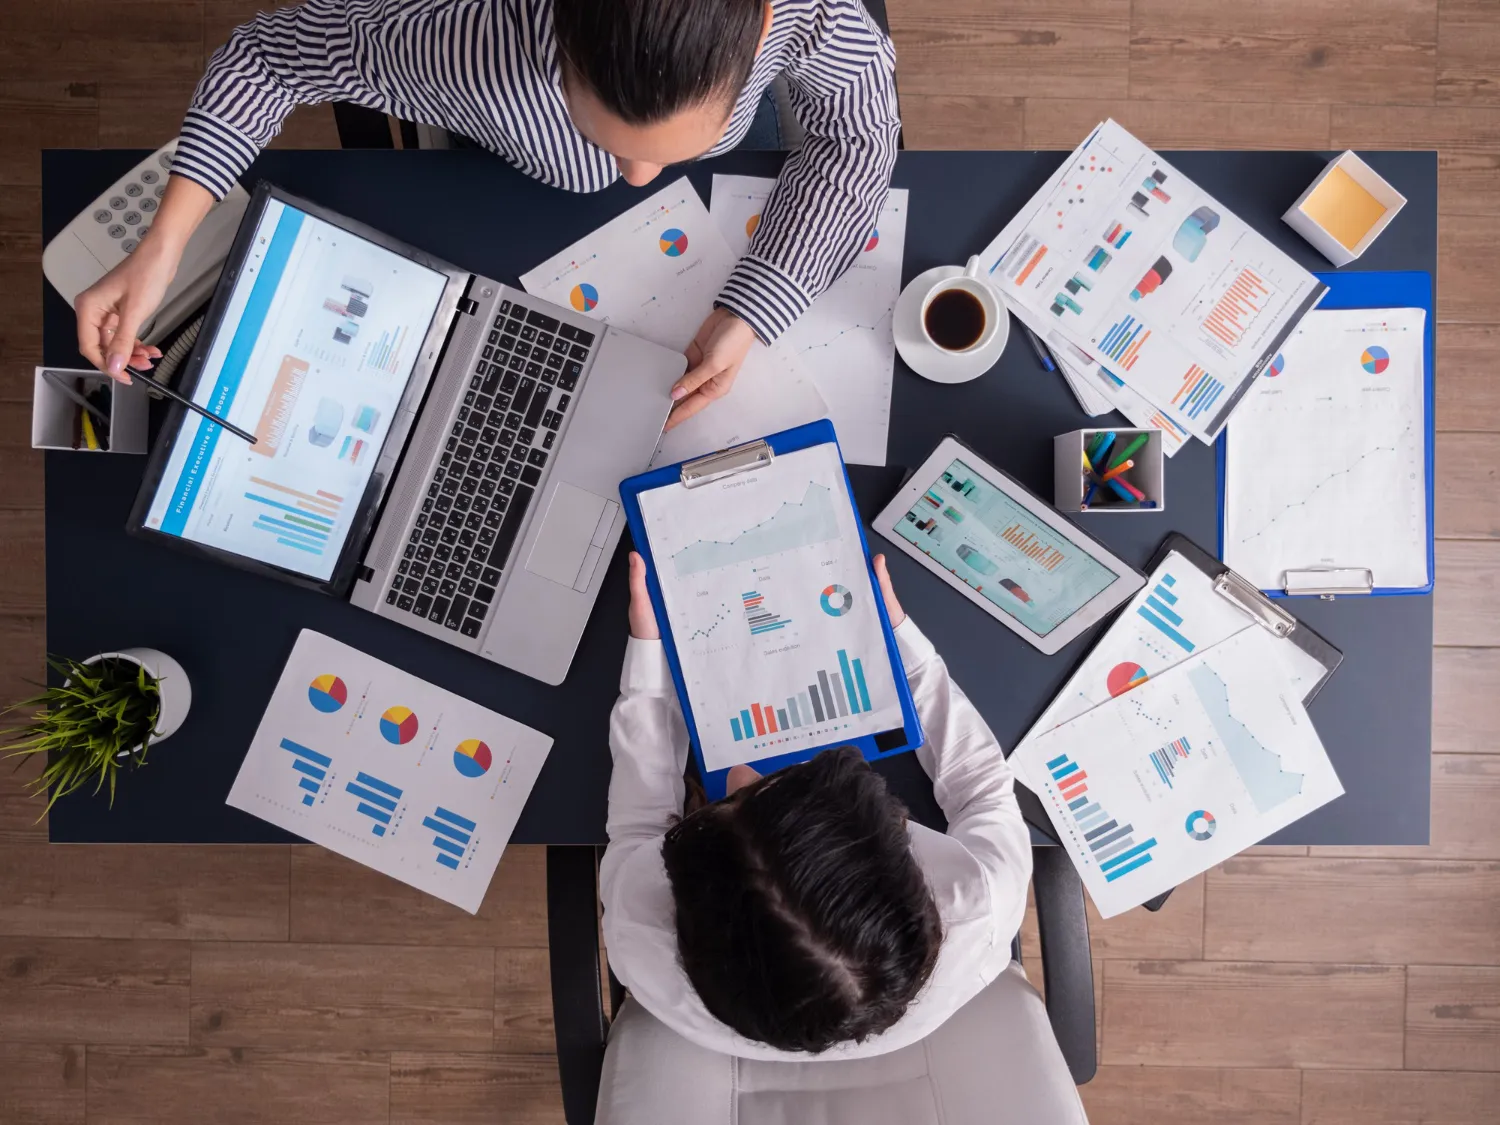
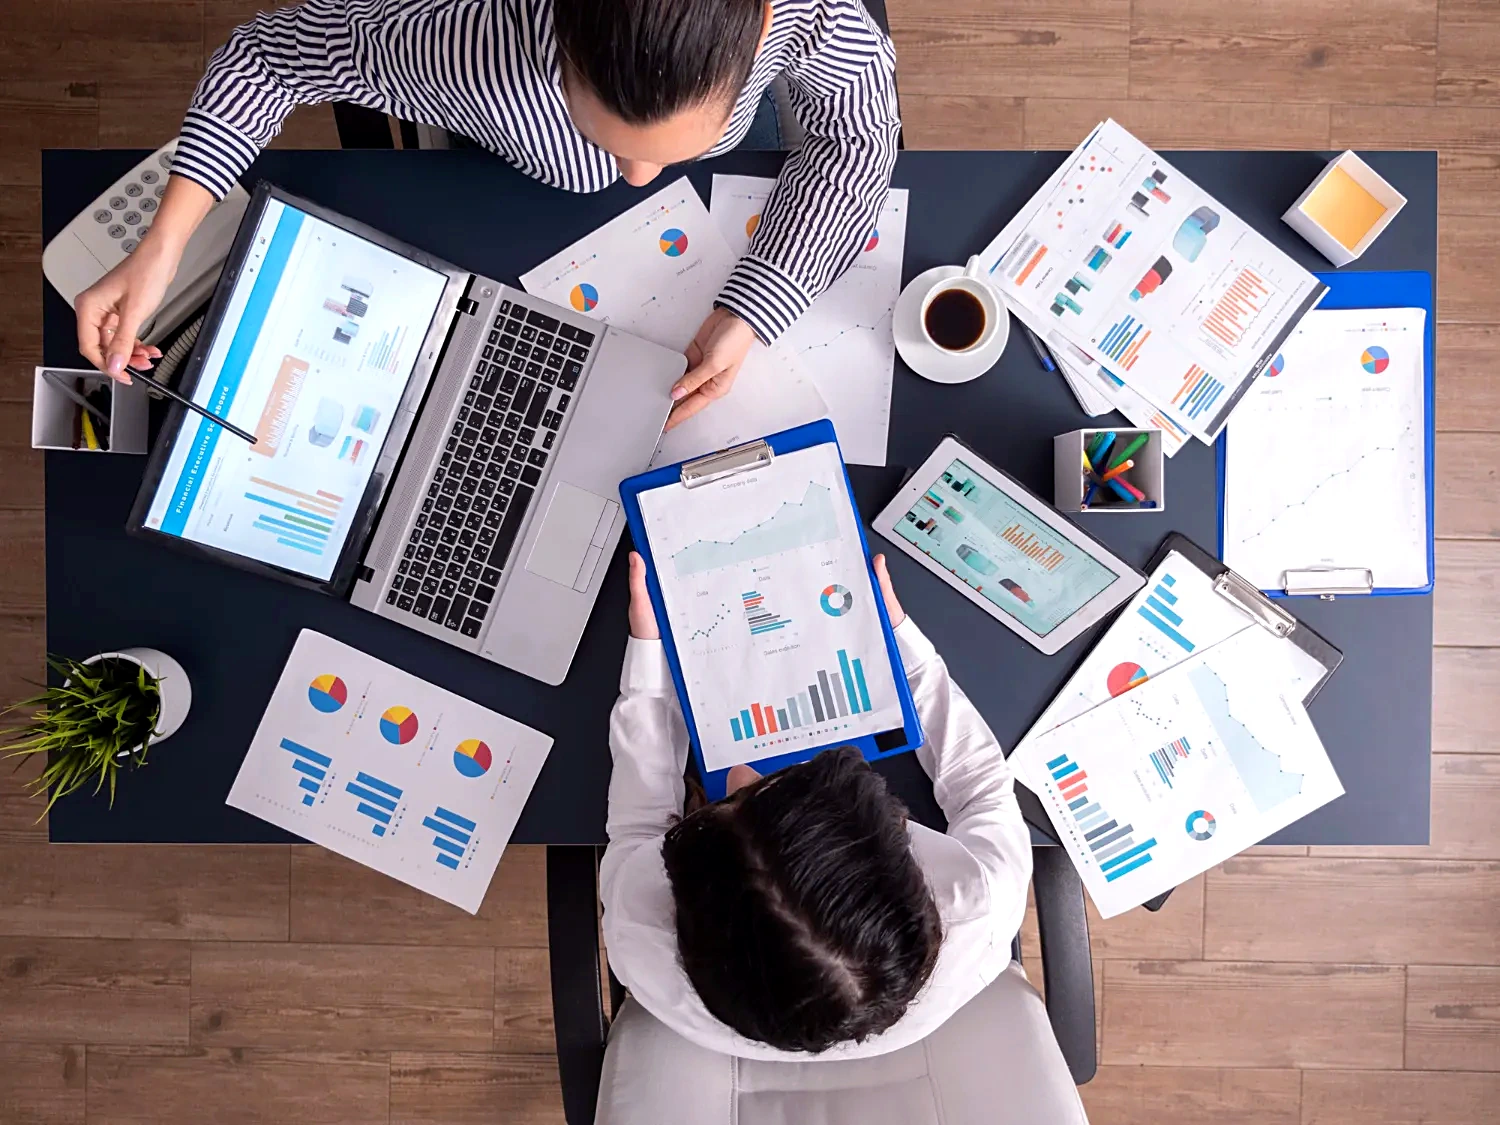
style: brighten site imagery and unify media treatment

diff --git a/src/styles/global.css b/src/styles/global.css
@@ -296,6 +296,14 @@
   -webkit-text-fill-color: transparent;
 }
 
+/* ---- Media treatment (hero/content photos) ----
+   Reemplaza los opacity-80/85/90 sueltos por un único tratamiento
+   consistente: sin oscurecer de más, con un realce leve de brillo/
+   contraste/saturación para que las fotos respiren sin lavarse. */
+.media-bright {
+  filter: brightness(1.1) contrast(1.08) saturate(1.06);
+}
+
 /* ---- Divider ---- */
 .cyber-divider {
   height: 1px;
